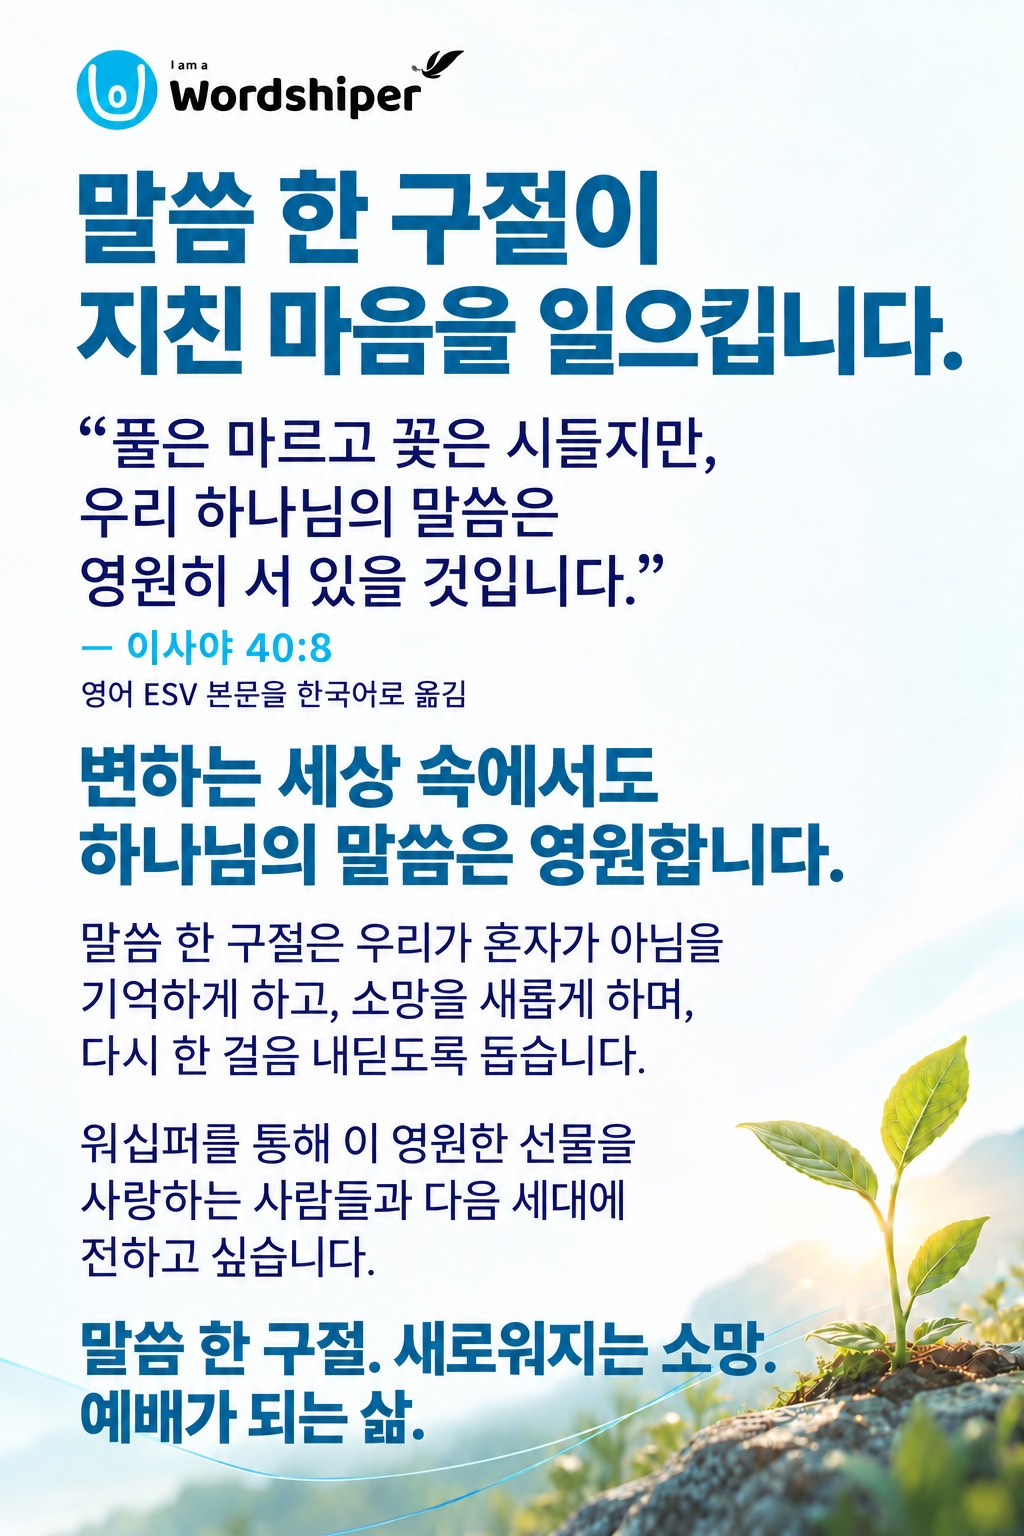
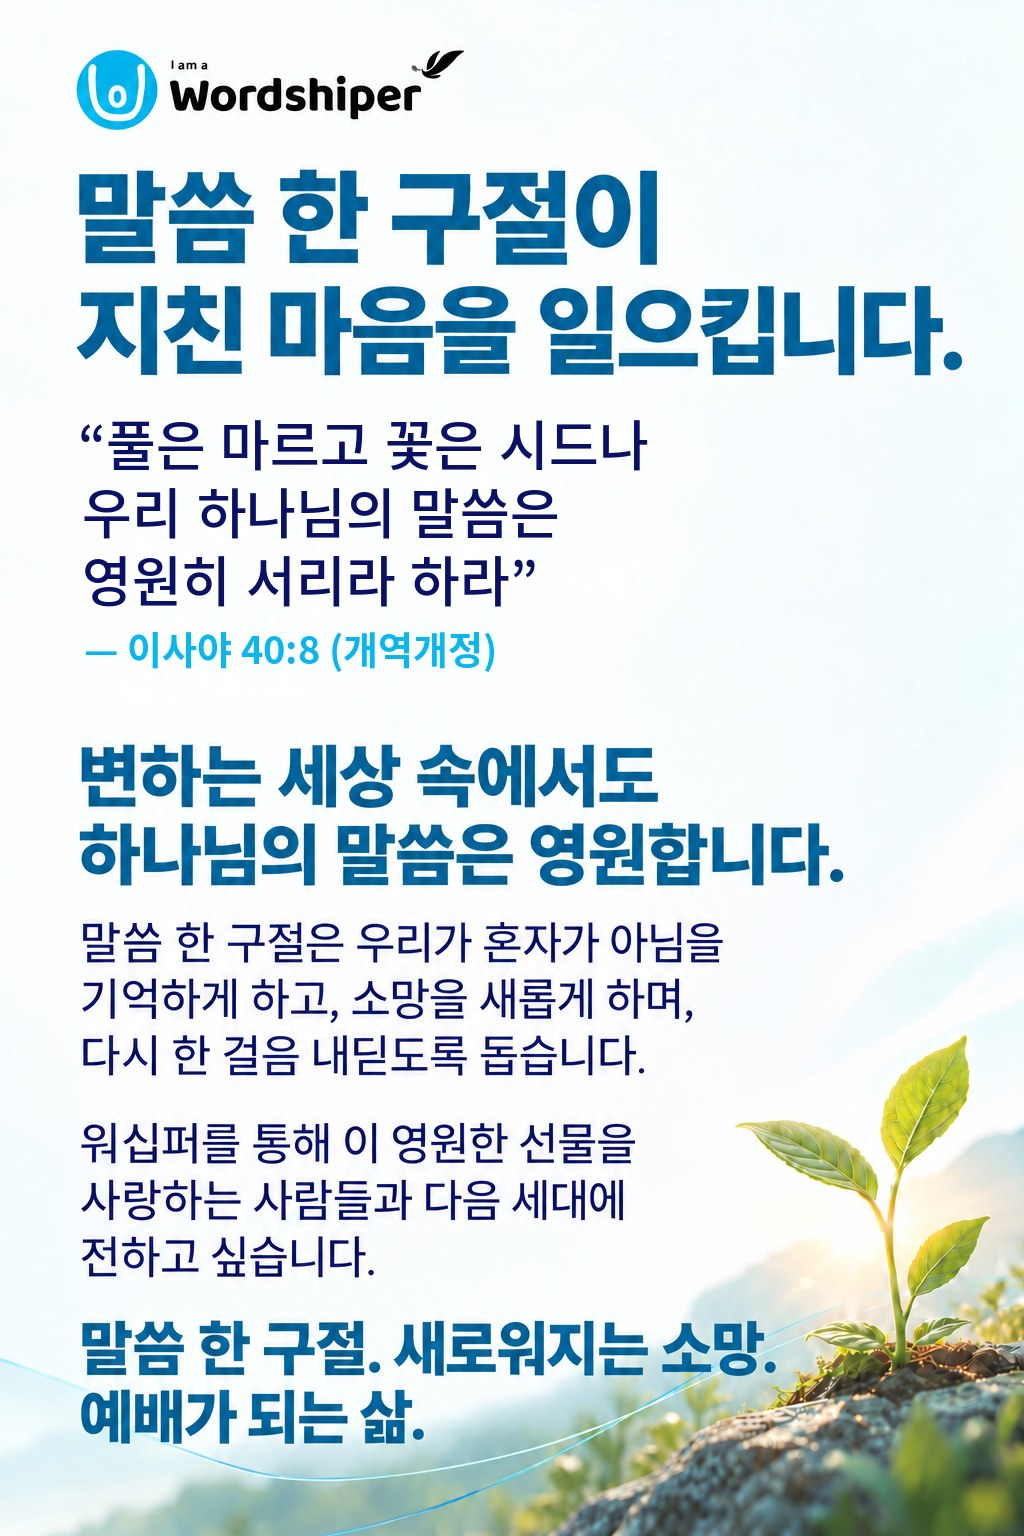
Use 개역개정 for Isaiah 40:8 on the Korean campaign poster.
The English poster already quotes ESV; its image description now carries the full ESV verse.

Changed region(s): [[0.0625, 0.25, 0.6875, 0.4688]]

diff --git a/client/src/data/donation-campaign.ts b/client/src/data/donation-campaign.ts
@@ -12,7 +12,7 @@ export interface CampaignPanel {
 const EN_PANELS: CampaignPanel[] = [
   {
     src: "/campaign/en/01-one-verse.jpg",
-    alt: "One verse can lift a weary heart. Isaiah 40:8.",
+    alt: "One verse can lift a weary heart. “The grass withers, the flower fades, but the word of our God will stand forever.” Isaiah 40:8 (ESV).",
   },
   {
     src: "/campaign/en/02-what-is.jpg",
@@ -31,7 +31,7 @@ const EN_PANELS: CampaignPanel[] = [
 const KO_PANELS: CampaignPanel[] = [
   {
     src: "/campaign/ko/01-one-verse.jpg",
-    alt: "말씀 한 구절이 지친 마음을 일으킵니다. 이사야 40:8. 영어 ESV 본문을 한국어로 옮김.",
+    alt: "말씀 한 구절이 지친 마음을 일으킵니다. “풀은 마르고 꽃은 시드나 우리 하나님의 말씀은 영원히 서리라 하라” 이사야 40:8 (개역개정).",
   },
   {
     src: "/campaign/ko/02-what-is.jpg",
